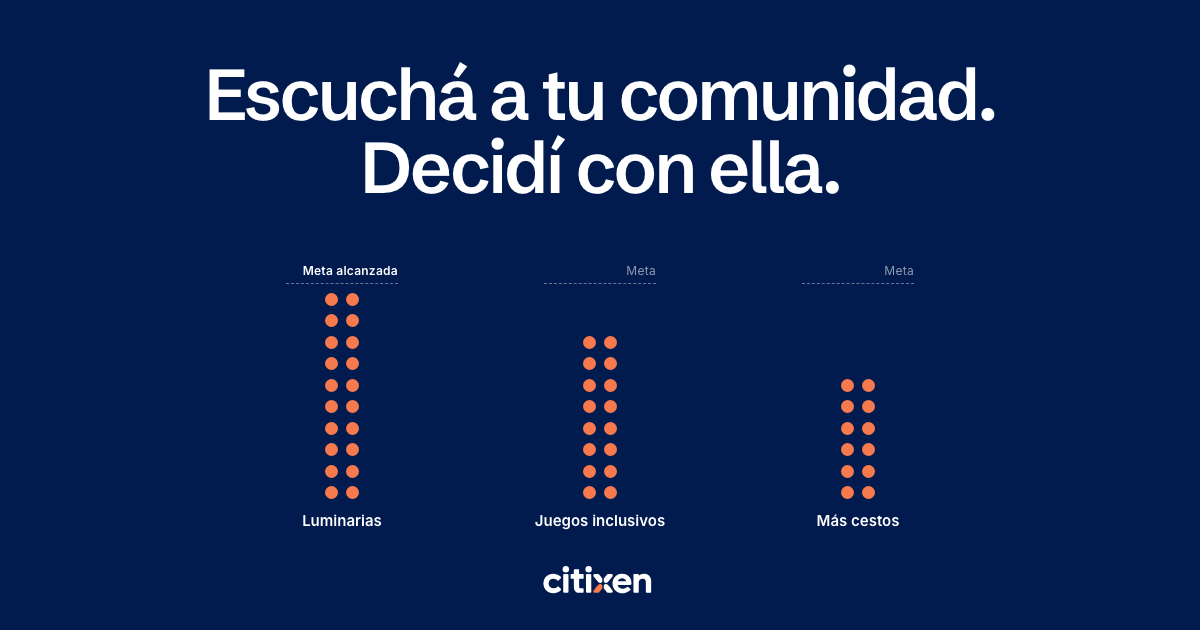
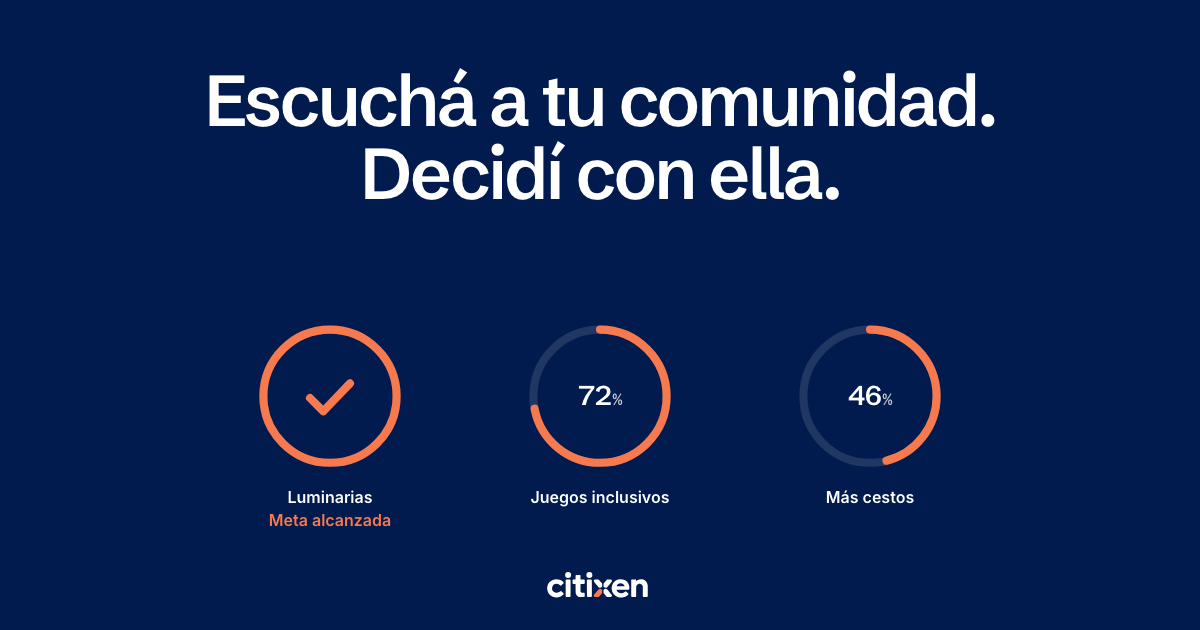
Hero de Decide: anillos de meta en lugar de columnas de puntos
Pedido de Pablo: las columnas de puntos no comunicaban la idea de meta.
- En Decide, los aportes de cada tema fluyen al centro de un anillo y se absorben; cada anillo
  es un proyecto que se llena en coral hacia su meta. Uno se completa y muestra su tilde
  («Meta alcanzada»); los otros indican su avance.
- El recorrido automático sigue terminando en unos 5 segundos (WCAG 2.2.2).
- Figura más compacta en teléfonos; imágenes para redes regeneradas.

diff --git a/components/ed/HeroField.jsx b/components/ed/HeroField.jsx
@@ -2,16 +2,16 @@ import { useEffect, useMemo, useRef, useState } from 'react'
 import styles from './ed.module.css'
 
 // Figura del hero: los mismos 48 puntos representan los aportes de la comunidad.
-// En Escucha se agrupan en tres temas; en Decide se apilan como el apoyo de tres
-// proyectos que avanzan hacia su meta. Datos ficticios (se rotula en la página).
+// En Escucha se agrupan en tres temas. En Decide fluyen hacia tres proyectos y se absorben:
+// cada proyecto es un anillo que se llena hacia su meta (uno la alcanza). Datos ficticios.
 
 const GROUPS = [20, 16, 12]
-const COLS = 2
-const GOAL_ROWS = 10 // el primer proyecto (20 puntos en filas de 2) llega justo a su meta
+// Avance de cada proyecto hacia su meta, en %. El primero la alcanza.
+const PROGRESS = [100, 72, 46]
 
 const FRAMES = {
-  wide: { w: 1000, h: 350, cx: [200, 500, 800], cy: 168, c: 14, base: 300, s: 25 },
-  narrow: { w: 600, h: 450, cx: [112, 300, 488], cy: 205, c: 15, base: 380, s: 27 },
+  wide: { w: 1000, h: 350, cx: [200, 500, 800], cy: 168, c: 14, ring: 74, stroke: 9 },
+  narrow: { w: 600, h: 350, cx: [112, 300, 488], cy: 150, c: 15, ring: 72, stroke: 12 },
 }
 
 // Pseudoaleatorio determinista: el estado inicial coincide en servidor y cliente.
@@ -33,7 +33,8 @@ function layout(frame) {
         group: g,
         scatter: { x: f.w * (0.06 + seeded(id + 1) * 0.88), y: f.h * (0.08 + seeded(id + 101) * 0.7) },
         listen: { x: f.cx[g] + r * Math.cos(angle), y: f.cy + r * Math.sin(angle) },
-        decide: { x: f.cx[g] + ((i % COLS) - (COLS - 1) / 2) * f.s, y: f.base - Math.floor(i / COLS) * f.s },
+        // Al centro del anillo de su proyecto, donde se absorben.
+        decide: { x: f.cx[g] + r * 0.18 * Math.cos(angle), y: f.cy + r * 0.18 * Math.sin(angle) },
       })
     }
   })
@@ -56,8 +57,7 @@ export default function HeroField({ t, mode, onSelect }) {
   const { f, dots } = useMemo(() => layout(frame), [frame])
   const shown = mode === 'scatter' ? 'listen' : mode
   const listenLabelY = f.cy + f.c * Math.sqrt(GROUPS[0]) + 22
-  const decideLabelY = f.base + f.s * 0.9
-  const goalY = f.base - (GOAL_ROWS - 1) * f.s - f.s * 0.75
+  const decideLabelY = f.cy + f.ring + f.stroke + 18
 
   return (
     <figure className={styles.field}>
@@ -81,13 +81,33 @@ export default function HeroField({ t, mode, onSelect }) {
         style={{ aspectRatio: `${f.w} / ${f.h}` }}
         aria-hidden="true"
       >
-        {f.cx.map((cx, g) => (
-          <span
-            key={`goal-${g}`}
-            className={styles.goal}
-            style={{ left: pct(cx - 2.6 * f.s, f.w), width: pct(5.2 * f.s, f.w), top: pct(goalY, f.h) }}
-          >
-            <span>{g === 0 ? t.goalReached : t.goal}</span>
+        <svg className={styles.rings} viewBox={`0 0 ${f.w} ${f.h}`} preserveAspectRatio="none">
+          {f.cx.map((cx, g) => (
+            <g key={`ring-${g}`} style={{ '--p': PROGRESS[g], '--rd': `${400 + g * 120}ms` }}>
+              <circle cx={cx} cy={f.cy} r={f.ring} className={styles.ringTrack} strokeWidth={f.stroke} />
+              <circle
+                cx={cx}
+                cy={f.cy}
+                r={f.ring}
+                pathLength="100"
+                className={styles.ringFill}
+                strokeWidth={f.stroke}
+                transform={`rotate(-90 ${cx} ${f.cy})`}
+              />
+              {g === 0 && (
+                <path
+                  className={styles.ringCheck}
+                  d={`M${cx - f.ring * 0.3} ${f.cy + 2} l${f.ring * 0.2} ${f.ring * 0.2} l${f.ring * 0.4} -${f.ring * 0.42}`}
+                  pathLength="100"
+                  strokeWidth={f.stroke}
+                />
+              )}
+            </g>
+          ))}
+        </svg>
+        {f.cx.slice(1).map((cx, i) => (
+          <span key={`pc-${i}`} className={styles.ringValue} style={{ left: pct(cx, f.w), top: pct(f.cy, f.h), '--rd': `${520 + i * 120}ms` }}>
+            {PROGRESS[i + 1]}<small>%</small>
           </span>
         ))}
 
@@ -97,7 +117,7 @@ export default function HeroField({ t, mode, onSelect }) {
             <span
               key={d.id}
               className={styles.dot}
-              style={{ left: pct(p.x, f.w), top: pct(p.y, f.h), transitionDelay: `${d.id * 14}ms` }}
+              style={{ left: pct(p.x, f.w), top: pct(p.y, f.h), '--d': `${d.id * 14}ms` }}
             />
           )
         })}
@@ -110,6 +130,7 @@ export default function HeroField({ t, mode, onSelect }) {
         {f.cx.map((cx, g) => (
           <span key={`ld-${g}`} className={`${styles.label} ${styles.labelDecide}`} style={{ left: pct(cx, f.w), top: pct(decideLabelY, f.h) }}>
             {t.projects[g]}
+            {g === 0 && <em className={styles.labelGoal}>{t.goalReached}</em>}
           </span>
         ))}
       </div>
@@ -131,7 +152,7 @@ export function useHeroSequence() {
       return undefined
     }
     const a = setTimeout(() => { if (!touched.current) setMode('listen') }, 350)
-    const b = setTimeout(() => { if (!touched.current) setMode('decide') }, 4300)
+    const b = setTimeout(() => { if (!touched.current) setMode('decide') }, 3300)
     return () => { clearTimeout(a); clearTimeout(b) }
   }, [])
 

diff --git a/components/ed/ed.module.css b/components/ed/ed.module.css
@@ -77,15 +77,35 @@
   margin: -6.5px 0 0 -6.5px;
   border-radius: 50%;
   background: rgba(255, 255, 255, 0.82);
-  transition: left 1100ms var(--ease), top 1100ms var(--ease), background-color 700ms var(--ease), opacity 700ms var(--ease);
+  --d: 0ms;
+  transition:
+    left 1000ms var(--ease) var(--d),
+    top 1000ms var(--ease) var(--d),
+    opacity 500ms var(--ease) var(--d),
+    transform 500ms var(--ease) var(--d),
+    background-color 600ms var(--ease) var(--d);
 }
 .mode_scatter .dot { opacity: 0.45; }
-.mode_decide .dot { background: var(--coral); }
+/* Decide: los puntos viajan al centro de su proyecto, toman el coral y se absorben. */
+.mode_decide .dot {
+  background: var(--coral);
+  opacity: 0;
+  transform: scale(0.3);
+  transition:
+    left 900ms var(--ease) var(--d),
+    top 900ms var(--ease) var(--d),
+    background-color 500ms var(--ease) var(--d),
+    opacity 350ms var(--ease) calc(var(--d) + 650ms),
+    transform 350ms var(--ease) calc(var(--d) + 650ms);
+}
 
 .label {
   position: absolute;
   transform: translateX(-50%);
   width: 30%;
+  display: grid;
+  justify-items: center;
+  gap: 0.2rem;
   font-size: 0.9375rem;
   font-weight: 600;
   line-height: 1.25;
@@ -93,26 +113,52 @@
   opacity: 0;
   transition: opacity 600ms var(--ease);
 }
+.labelGoal { font-style: normal; font-size: 0.8125rem; font-weight: 600; color: var(--coral); }
 .mode_listen .labelListen,
 .mode_decide .labelDecide { opacity: 1; transition-delay: 500ms; }
 
-.goal {
+/* Anillos de meta: cada proyecto se llena en coral hacia su meta; el primero la alcanza. */
+.rings { position: absolute; inset: 0; width: 100%; height: 100%; overflow: visible; }
+.rings g { opacity: 0; transition: opacity 500ms var(--ease); }
+.mode_decide .rings g { opacity: 1; transition-delay: 350ms; }
+.ringTrack { fill: none; stroke: rgba(255, 255, 255, 0.12); }
+.ringFill {
+  fill: none;
+  stroke: var(--coral);
+  stroke-linecap: round;
+  stroke-dasharray: 100;
+  stroke-dashoffset: 100;
+  transition: stroke-dashoffset 300ms var(--ease);
+}
+.mode_decide .ringFill {
+  stroke-dashoffset: calc(100 - var(--p));
+  transition: stroke-dashoffset 1100ms var(--ease) var(--rd);
+}
+.ringCheck {
+  fill: none;
+  stroke: var(--coral);
+  stroke-linecap: round;
+  stroke-linejoin: round;
+  stroke-dasharray: 100;
+  stroke-dashoffset: 100;
+  transition: stroke-dashoffset 200ms var(--ease);
+}
+.mode_decide .ringCheck { stroke-dashoffset: 0; transition: stroke-dashoffset 450ms var(--ease) 1500ms; }
+
+.ringValue {
   position: absolute;
-  border-top: 1px dashed rgba(255, 255, 255, 0.4);
+  transform: translate(-50%, -50%);
+  font-family: var(--font-display);
+  font-size: clamp(1.125rem, 0.8rem + 1.2vw, 1.75rem);
+  font-weight: 600;
+  letter-spacing: -0.02em;
+  font-variant-numeric: tabular-nums;
+  color: var(--on-night);
   opacity: 0;
-  transition: opacity 600ms var(--ease);
+  transition: opacity 300ms var(--ease);
 }
-.goal span {
-  position: absolute;
-  right: 0;
-  bottom: 4px;
-  font-size: 0.75rem;
-  letter-spacing: 0.02em;
-  color: var(--on-night-3);
-  white-space: nowrap;
-}
-.goal:first-of-type span { color: var(--on-night); font-weight: 600; }
-.mode_decide .goal { opacity: 1; transition-delay: 900ms; }
+.ringValue small { font-size: 0.6em; color: var(--on-night-2); margin-left: 0.05em; }
+.mode_decide .ringValue { opacity: 1; transition: opacity 500ms var(--ease) calc(var(--rd) + 600ms); }
 
 .caption { margin-top: 1.25rem; font-size: 1rem; color: var(--on-night-2); min-height: 1.6em; }
 
@@ -394,7 +440,6 @@
 @media (max-width: 640px) {
   .dot { width: 8px; height: 8px; margin: -4px 0 0 -4px; }
   .label { font-size: 0.75rem; }
-  .goal span { font-size: 0.6875rem; }
   .points { grid-template-columns: 1fr; gap: 1.25rem; }
   .wallet { grid-template-columns: 1fr; }
   .coins { justify-content: flex-start; }
@@ -402,7 +447,7 @@
 }
 
 @media (prefers-reduced-motion: reduce) {
-  .heroTitle span, .switchPill, .switchBtn, .dot, .label, .goal,
+  .heroTitle span, .switchPill, .switchBtn, .dot, .label, .rings g, .ringFill, .ringCheck, .ringValue,
   .bubble em, .themes li, .track span, .coins i, .plus, .barMine { transition: none; }
   .bubble, .chipOn, .chipOff, .reached { animation: none; }
 }

diff --git a/CLAUDE.md b/CLAUDE.md
@@ -6,7 +6,7 @@ Hasta que se apruebe y se haga merge, producción sigue sirviendo `main` con el 
 ## Home «Escucha y Decide» (rama `redesign/escucha-decide`, 16-nov-2026, pendiente de aprobación)
 
 Reemplaza la home «Ciudad que escucha» cuando se apruebe. Fuente: Documento Maestro v1.1 §6 (`../docs/estrategia/`).
-- Cuatro secciones: hero (selector Escucha/Decide sobre una figura de 48 puntos: temas ↔ barras con meta), Escucha (explorador de Lugares de la home anterior: mapa de Valle Norte + ficha de cada lugar en cinco pestañas, dentro de un marco noche, sin rótulos de disponibilidad; pedido de Pablo, 16-nov-2026; reemplazó a la demo de aportes, `components/ed/ListenDemo.jsx`, que queda sin uso), Decide (asignación interactiva de Créditos Cívicos con límite mensual y meta), cierre (complementariedad + formulario de demostración). Código: `pages/index.js`, `components/ed/`, `content/escuchaDecide.mjs`.
+- Cuatro secciones: hero (selector Escucha/Decide sobre una figura de 48 puntos: en Escucha se agrupan en temas; en Decide fluyen hacia tres anillos de meta que se llenan en coral, uno completo con su tilde; los anillos reemplazaron a las columnas de puntos por pedido de Pablo, 16-nov-2026), Escucha (explorador de Lugares de la home anterior: mapa de Valle Norte + ficha de cada lugar en cinco pestañas, dentro de un marco noche, sin rótulos de disponibilidad; pedido de Pablo, 16-nov-2026; reemplazó a la demo de aportes, `components/ed/ListenDemo.jsx`, que queda sin uso), Decide (asignación interactiva de Créditos Cívicos con límite mensual y meta), cierre (complementariedad + formulario de demostración). Código: `pages/index.js`, `components/ed/`, `content/escuchaDecide.mjs`.
 - CTA único: «Solicitar una demostración» (`/#demostracion`, mismo `MunicipalLead`, con la demostración preseleccionada). «Empezar gratis» queda fuera del hero y de la navegación (decisión de Pablo, 16-nov-2026); el registro autónomo queda en el pie. La portada del registro (panel.citixen.app, repo `citixen-portal`, rama `fix/panel-plan-gratuito-sin-ia`) deja de prometer el análisis con IA.
 - Firma institucional: «Tu ciudad. Tu voz. Tu decisión.» (pie). «Tus impuestos. Tu decisión.» se reserva para comunicaciones específicas de Decide: no usarla en la home.
 - `/plataforma` y `/primer-ciclo` retiradas temporalmente (`SHOW_PLATFORM_PAGE`, `SHOW_FIRST_CYCLE_PAGE` en `lib/features.js`): redirigen con 307, en un solo salto y conservando idioma y `?interes=`, a `/#escucha` y `/#demostracion`. `/soygobierno`, `/municipios`, `/pricing` y `/caso-de-estudio` van directo a `/#demostracion`; `/como-funciona` y `/creditos-civicos`, a `/#decide`. Salen del sitemap. Para reponerlas, poner `true`.
@@ -15,7 +15,7 @@ Reemplaza la home «Ciudad que escucha» cuando se apruebe. Fuente: Documento Ma
 - Créditos Cívicos según el modelo continuo: sin ranking ni cierre, proyectos propuestos por vecinos u organizaciones y aprobados por el gobierno, límite de 5 por proyecto y mes, sin botón para retirar créditos (la app no lo ofrece). Se dicen «unidades de participación, no dinero».
 - Navegación y pie apuntan a `#escucha`, `#decide` y `#demostracion`. Los datos de Lugares viven en `content/places.mjs` (los usan la home nueva y `content/landing.mjs`); `PlacesExplorer` se exporta desde `components/landing/Places.jsx`. El resto de `components/landing/` y `content/landing.mjs` queda sin uso.
 - `SHOW_CIVIC_CREDITS` sigue en `false`: la home nueva muestra Decide sin depender de ese interruptor, que solo gobierna las páginas viejas de Créditos Cívicos.
-- Imágenes para redes regeneradas con la figura del hero en modo Decide.
+- Imágenes para redes regeneradas con los anillos de meta del hero.
 
 ## Maqueta «Ciudad que escucha» (reemplaza la dirección de «El acuerdo» en la home)
 
